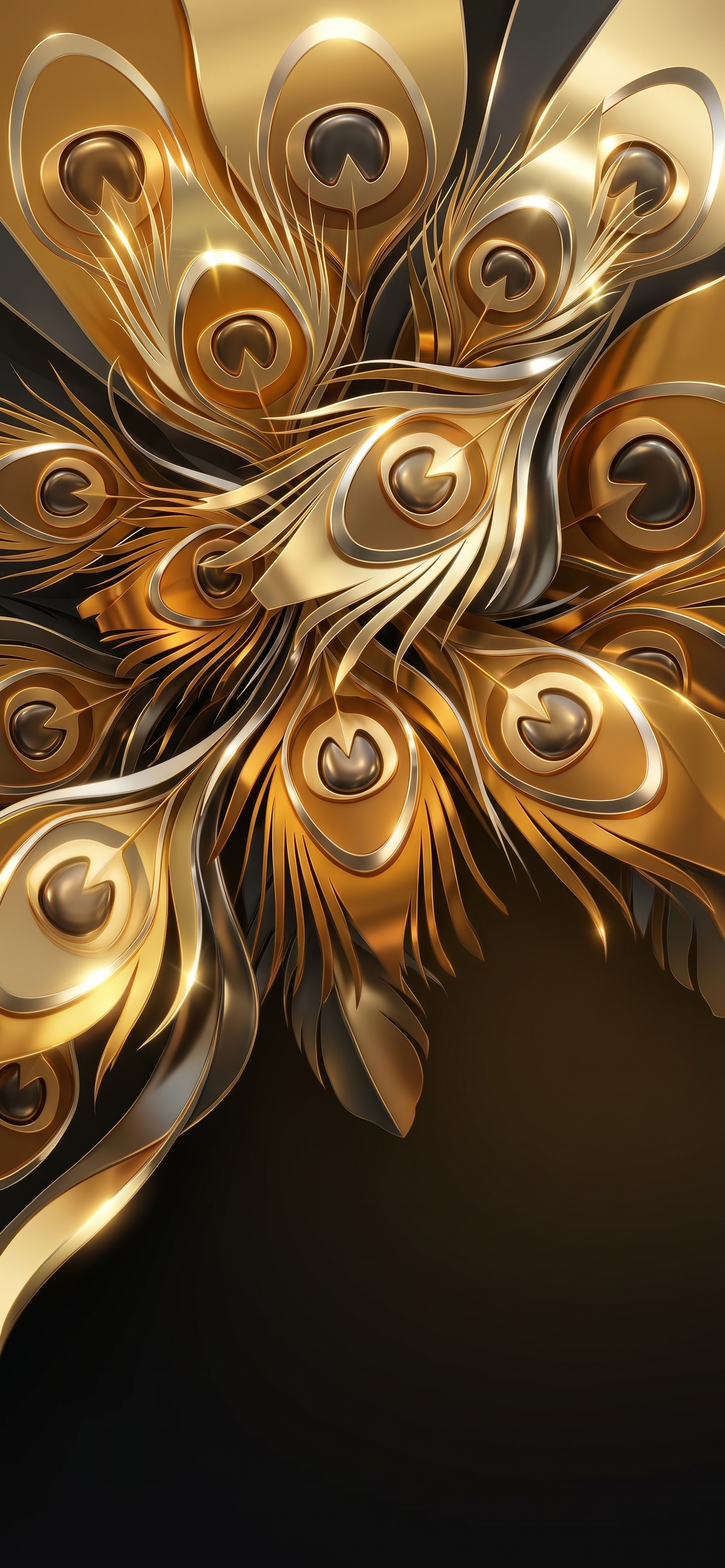
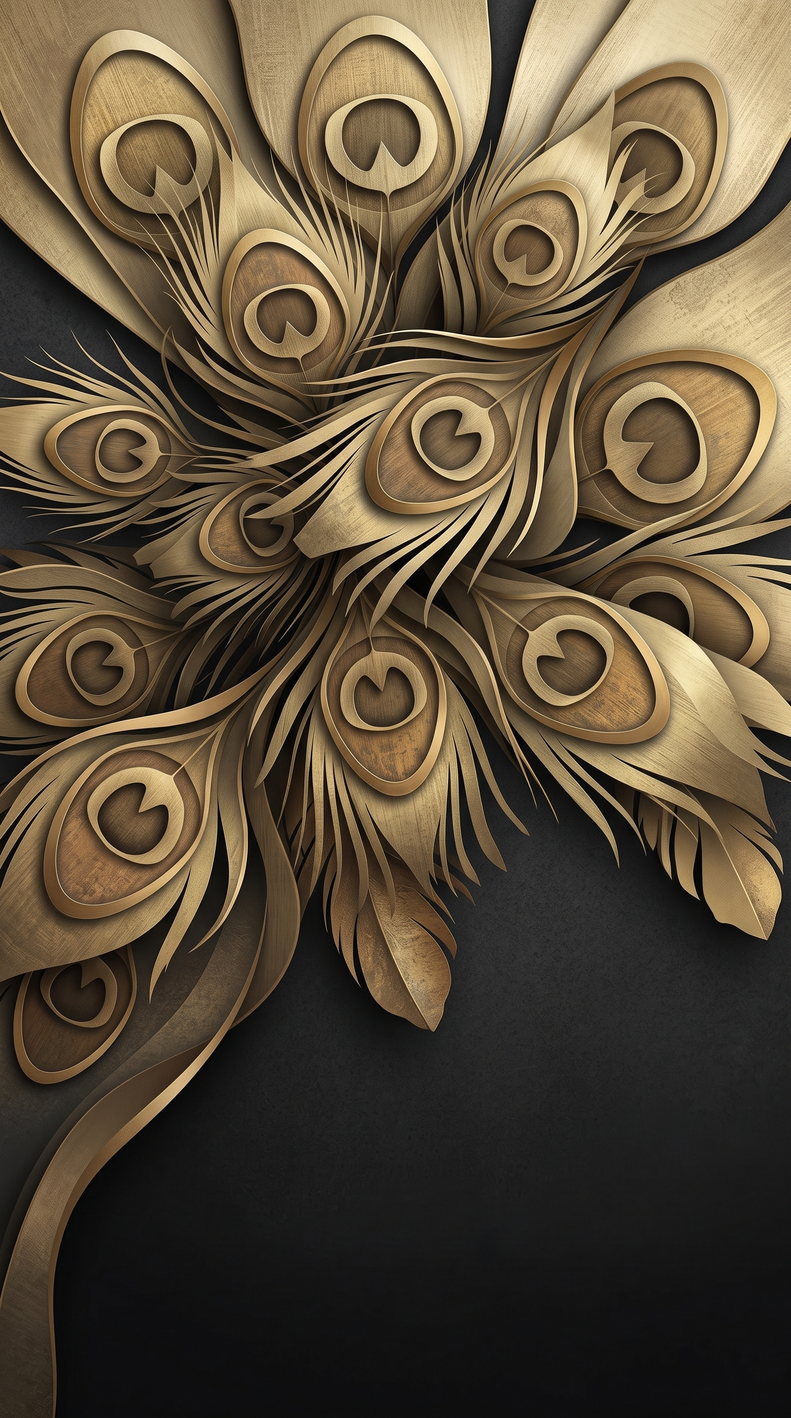
peacock-charging

diff --git a/src/screens/WalletScreen.jsx b/src/screens/WalletScreen.jsx
@@ -50,15 +50,18 @@ const SKIN_NAMES = ['ink', 'silver', 'jet', 'chalk', 'gold']
  */
 const SKIN_STEPS = [
   { from: 10000, skin: 4 },
-  { from: 5000, skin: 3 },
-  { from: 2000, skin: 2 },
+  { from: 8000, skin: 3 },
+  { from: 5000, skin: 2 },
+  { from: 2000, skin: 1 },
 ]
 
 /*
- * The silver-outlined blue is off the ladder — four grounds earned, and that
- * one left over. Tapping the name or the mark still steps through all five so
- * it can be looked at, and the balance takes the screen back the moment the
- * figure moves.
+ * All five are on the ladder now: the silver-outlined blue was the one left
+ * over, and it is the first thing a balance earns — close enough to the ink
+ * it starts on that the change reads as the same card getting richer rather
+ * than a different card. Tapping the name or the mark still steps through all
+ * five by hand, and the balance takes the screen back the moment the figure
+ * moves.
  */
 
 function skinForBalance(balance) {
